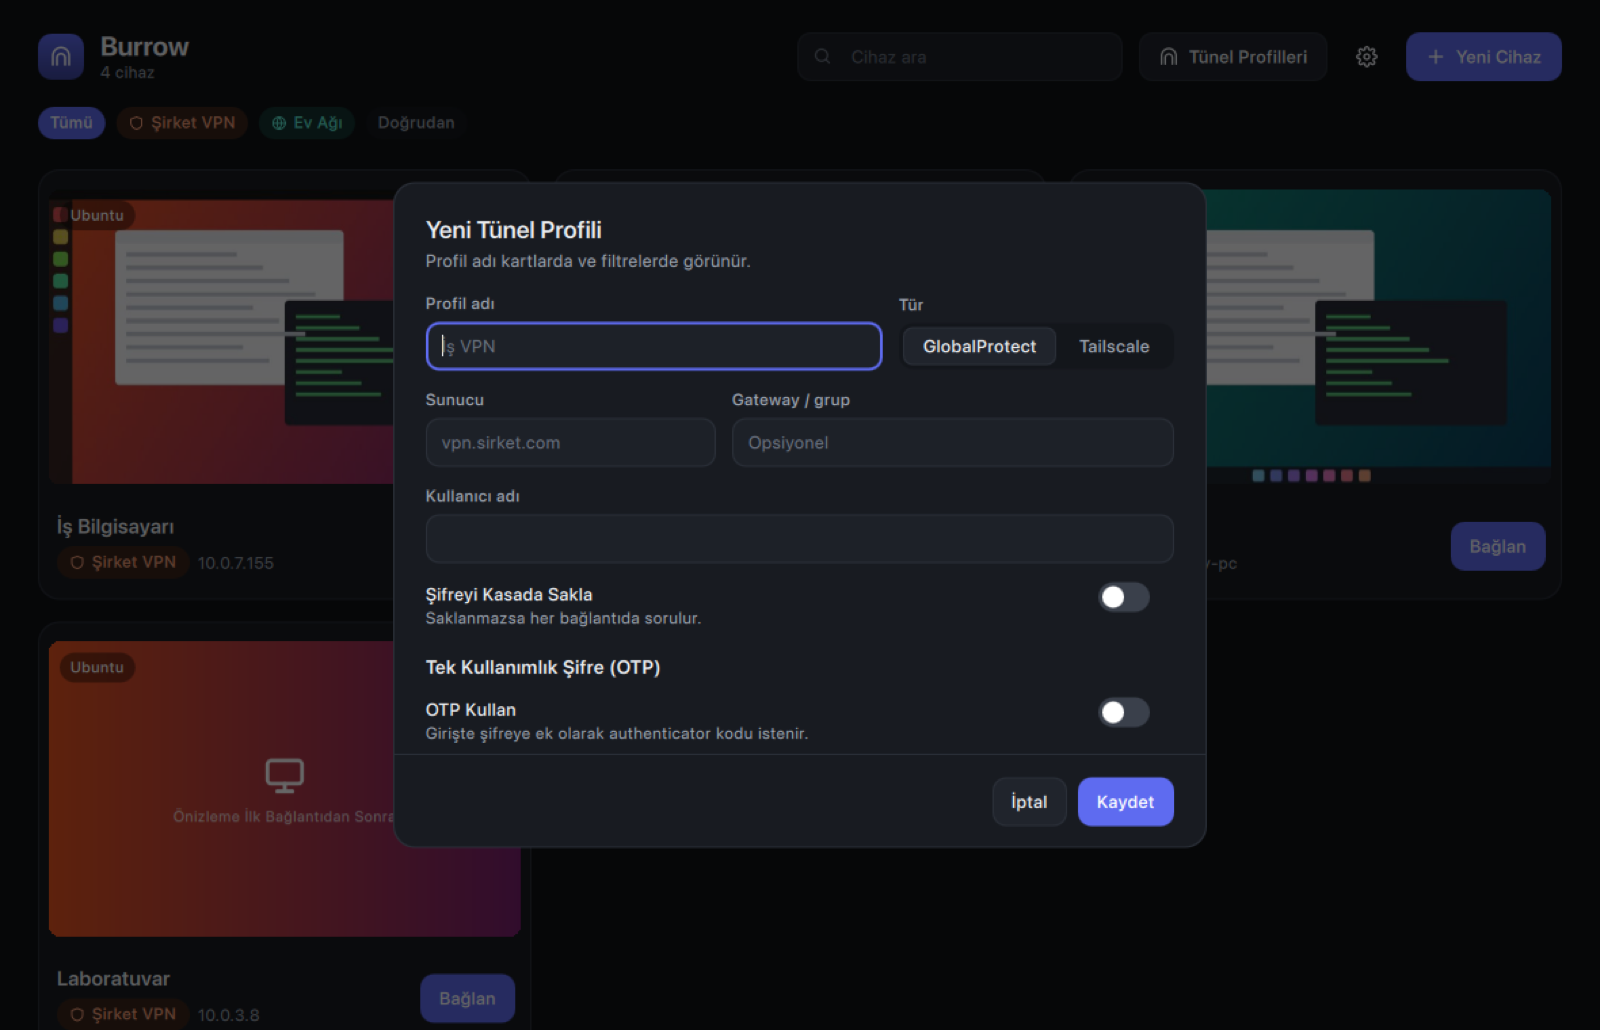
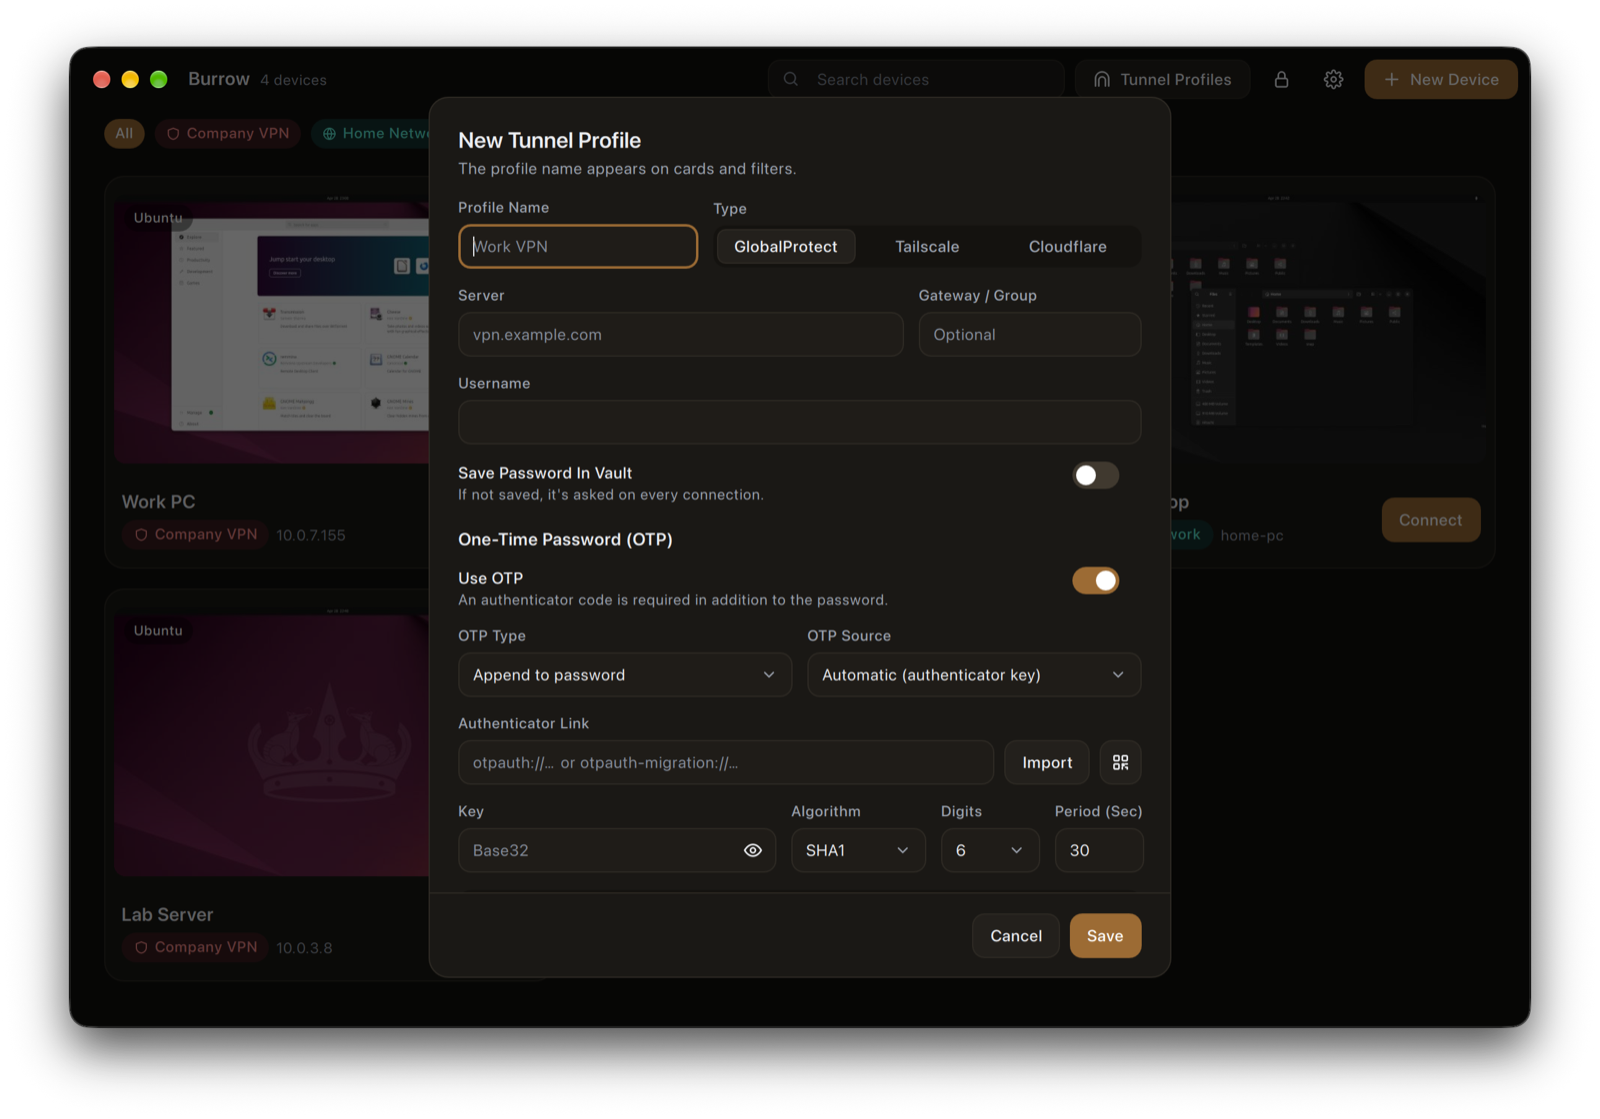
docs: rewrite the README; add security policy, Dependabot, CodeQL and govulncheck
- README for the current app: RDP with H.264, Macs over Screen Sharing, tunnels, security, install,
  with new demo screenshots that follow GitHub's light or dark theme.
- SECURITY.md (private reporting), weekly Dependabot updates for Actions and Go modules, CodeQL for
  Go and the workflows, and a govulncheck job in CI.
- docs/github-settings.md lists the repository settings to apply on GitHub.

diff --git a/README.md b/README.md
@@ -1,18 +1,23 @@
 <p align="center">
-  <img src="docs/images/gallery.png" alt="Burrow device gallery" width="820">
+  <picture>
+    <source media="(prefers-color-scheme: dark)" srcset="docs/images/gallery-dark.png">
+    <img src="docs/images/gallery-light.png" alt="Burrow's device gallery: computers as cards with their last screen" width="820">
+  </picture>
 </p>
 
 <h1 align="center">Burrow</h1>
 
 <p align="center">
   <b>Remote desktop through a private tunnel — without touching the rest of your computer.</b><br>
-  An open-source RDP client for macOS, Ubuntu and Windows with built-in GlobalProtect and Tailscale tunnels.
+  An open-source remote desktop app for macOS: RDP to Windows and Ubuntu, Screen Sharing to Macs,
+  with GlobalProtect, Tailscale and Cloudflare tunnels built in.
 </p>
 
 <p align="center">
+  <a href="https://github.com/metin-aydin/Burrow/releases/latest"><img alt="Latest release" src="https://img.shields.io/github/v/release/metin-aydin/Burrow?display_name=tag&sort=semver"></a>
+  <a href="https://github.com/metin-aydin/Burrow/actions/workflows/ci.yml"><img alt="CI" src="https://github.com/metin-aydin/Burrow/actions/workflows/ci.yml/badge.svg?branch=development"></a>
   <a href="LICENSE"><img alt="License: MIT" src="https://img.shields.io/badge/license-MIT-blue.svg"></a>
-  <img alt="Platforms" src="https://img.shields.io/badge/platforms-macOS%20%7C%20Ubuntu%20%7C%20Windows-lightgrey">
-  <img alt="Status" src="https://img.shields.io/badge/status-early%20development-orange">
+  <img alt="Platform: macOS" src="https://img.shields.io/badge/platform-macOS%20(Apple%20silicon)-lightgrey">
 </p>
 
 > **[Türkçe açıklama aşağıda ↓](#türkçe)**
@@ -21,70 +26,99 @@
 
 ## Why Burrow?
 
-Connecting to your work PC usually means turning on a full VPN that reroutes *all* of your traffic,
-then opening a separate RDP app that doesn't always cooperate. Burrow does both in one place:
+Reaching your work computer usually means switching on a VPN that reroutes *all* of your traffic, then
+opening a separate remote desktop app that doesn't always cooperate. Burrow does both in one place:
 
-- **The tunnel lives inside the app.** GlobalProtect (via openconnect) or Tailscale (via tsnet) runs in
-  userspace. Only Burrow's RDP traffic goes through it — your browser, music and the rest of the system
-  stay on your normal network. No admin rights, no system VPN.
-- **Built-in RDP client.** The remote desktop renders in Burrow's own windows (FreeRDP 3), with
-  multi-monitor support as tabs or detachable windows that remember their layout per device.
-- **One-tap login, even with OTP.** Import your authenticator QR (`otpauth://` or Google Authenticator
-  export) and Burrow fills the one-time code for you — including double-OTP portal/gateway flows.
-- **Everything encrypted, everything local.** Devices, passwords, OTP secrets and screen previews live in
-  a local vault protected by your master password (Argon2id + XChaCha20-Poly1305), optionally unlocked
-  with Touch ID. No cloud, no account.
+- **The tunnel lives inside the app.** GlobalProtect (openconnect), Tailscale (tsnet) and Cloudflare Access
+  run in userspace, only for Burrow's own connections. Your browser, calls and the rest of the system stay
+  on your normal network. No admin rights, no system VPN.
+- **One window, every screen.** Each remote monitor opens as a tab; drag a tab onto another display to give
+  it its own window, full screen if you like. Burrow remembers the layout per computer.
+- **Signs in for you, OTP included.** Import your authenticator QR code once and Burrow types the one-time
+  code itself, including two-step portal and gateway flows.
+- **Everything stays on your Mac, encrypted.** Computers, passwords, OTP secrets and screen previews live in
+  a local vault behind your master password (Argon2id + XChaCha20-Poly1305), with optional Touch ID.
+  No cloud, no account.
 
 ## Features
 
 | | |
 |---|---|
-| **Device gallery** | Cards with each computer's last screen as a preview, filter by tunnel, search |
-| **Tunnels** | GlobalProtect (auth group, split-DNS safe, TOTP with SHA1/256/512), Tailscale / Headscale |
-| **Sessions** | Auto-login, lock on disconnect, sign out or keep session, existing vs. new session (Ubuntu) |
-| **Clipboard** | Two-way text, rich text and images |
-| **Mac keyboard** | Cmd+C → Ctrl+C shortcut translation, full Cmd ↔ Ctrl swap, or off |
-| **Updates** | Automatic updates from GitHub Releases (Sparkle), signed and notarized |
+| **Gallery** | Every computer as a card with its last screen, filtered by tunnel, searchable |
+| **RDP** (Windows, Ubuntu) | FreeRDP 3 with H.264 (AVC444/AVC420) decoded in hardware, progressive RemoteFX fallback, one remote monitor per Mac display, GNOME Remote Login hand-over, certificate pinning |
+| **Macs** (Screen Sharing) | Built-in VNC client speaking Apple's own protocol: Mac user sign-in, encrypted session, the Mac's displays as tabs, Apple's Adaptive picture, the Mac's pointer shapes, Cmd stays Cmd |
+| **Tunnels** | GlobalProtect with OTP (TOTP SHA-1/256/512, appended or separate), Tailscale and Headscale with one-button sign-in and device import, Cloudflare Access |
+| **Sessions** | Automatic sign-in, lock the remote computer when you disconnect, tabs and windows that remember where you left them |
+| **Clipboard & keyboard** | Two-way clipboard (text, rich text, images over RDP), Mac shortcuts translated (Cmd+C → Ctrl+C) or swapped |
+| **App** | Light and dark appearance, English and Turkish, menu bar presence with auto-lock |
+| **Updates** | Signed and notarized releases; the app updates itself and verifies every download (SHA-256 and the Developer ID team) |
 
 <p align="center">
-  <img src="docs/images/tunnel-editor.png" alt="Tunnel profile editor" width="720">
+  <img src="docs/images/device-editor.png" alt="Adding a Mac: Screen Sharing over VNC" width="49%">
+  <img src="docs/images/tunnel-editor.png" alt="A GlobalProtect tunnel profile with automatic one-time codes" width="49%">
 </p>
+
+## Install
+
+Download the latest `.dmg` from [Releases](https://github.com/metin-aydin/Burrow/releases/latest) (the
+first release is on its way; until then, [build it](#building-macos)), open it and drag **Burrow** to
+Applications. Builds are signed with Developer ID and notarized by Apple; later
+versions install themselves from inside the app.
+
+Requires macOS 13 or later on Apple silicon. Ubuntu and Windows builds are planned.
+
+To reach a Mac, turn on **System Settings → General → Sharing → Screen Sharing** on it. To reach Ubuntu,
+turn on **Remote Desktop** in Settings → System (or Remote Login, where your GNOME offers it).
 
 ## Status
 
-Burrow is in **early development** — not ready for daily use yet.
+Burrow is young and moving fast.
 
-- [x] Encrypted vault, master password, Touch ID (signed builds)
-- [x] Device gallery, device and tunnel profile editors, TOTP import with live code
-- [x] GlobalProtect userspace tunnel verified against a real gateway (prototype)
-- [ ] Embedded RDP session (FreeRDP) with multi-monitor and clipboard
-- [ ] Tailscale (tsnet) and GlobalProtect (libopenconnect) inside the app
-- [ ] `burrow-agent` for Ubuntu: unlock on connect, lock on disconnect
-- [ ] Signed releases and auto-update
+- [x] Encrypted vault, master password, Touch ID
+- [x] Embedded RDP sessions: multi-monitor tabs and windows, clipboard, H.264
+- [x] GlobalProtect, Tailscale and Cloudflare tunnels inside the app
+- [x] Macs over Screen Sharing (VNC), with their displays as tabs
+- [x] Signed releases and in-app updates
+- [ ] `burrow-agent` for Ubuntu: unlock on connect, lock on disconnect, turn the office monitor off
+- [ ] Clipboard for Macs (Apple's pasteboard protocol)
+- [ ] Ubuntu and Windows builds
 
-Roadmap and requirements: [docs/SPEC.md](docs/SPEC.md) · Architecture decisions: [docs/decisions](docs/decisions)
+Requirements: [docs/SPEC.md](docs/SPEC.md) · Architecture decisions: [docs/decisions](docs/decisions)
+
+## Security
+
+- Secrets never leave the encrypted vault; they are not written to logs or test fixtures.
+- RDP servers are pinned on first use and Burrow refuses to connect if the certificate changes.
+- A wrong password is never retried automatically, so an account is not locked out.
+- Updates come only over HTTPS from this repository's releases, and are installed only if the archive
+  matches its SHA-256 and the new app is signed by the same Apple developer team.
+
+Found a vulnerability? Please report it privately — see [SECURITY.md](SECURITY.md).
 
 ## Architecture
 
 ```
-┌──────────────── Burrow.app ────────────────┐
-│  QML UI  ──  AppController (C++)           │
-│               │             │              │
-│        FreeRDP 3 engine   Vault (Go)       │
-│               │                            │
-│        netcore (Go, linked as C archive)   │
-│        ├─ tsnet ............ Tailscale     │
-│        ├─ libopenconnect ... GlobalProtect │
-│        └─ gVisor netstack (userspace TCP)  │
-└────────────────────────────────────────────┘
+┌──────────────────── Burrow.app ────────────────────┐
+│  QML UI  ──  AppController (C++)                   │
+│                │                  │                │
+│     RDP: FreeRDP 3      VNC: own RFB client        │
+│     (H.264 via          (Apple 003.889, Adaptive)  │
+│      VideoToolbox)                │                │
+│                └───────┬──────────┘                │
+│        netcore (Go, linked as a C archive)         │
+│        ├─ libopenconnect ... GlobalProtect         │
+│        ├─ tsnet ............ Tailscale             │
+│        ├─ Cloudflare Access (WebSocket)            │
+│        └─ encrypted vault, TOTP                    │
+└────────────────────────────────────────────────────┘
 ```
 
-Qt 6 (QML + C++20) · FreeRDP 3 · Go netcore · see [ADR 0001](docs/decisions/0001-tech-stack.md)
+Qt 6 (QML + C++20) · FreeRDP 3 · Go · see [ADR 0001](docs/decisions/0001-tech-stack.md)
 
 ## Building (macOS)
 
 ```bash
-brew install go cmake ninja qt freerdp
+brew install go cmake ninja qt freerdp openconnect
 cmake -S . -B build -G Ninja -DCMAKE_PREFIX_PATH="$(brew --prefix qt);$(brew --prefix freerdp)"
 cmake --build build
 open build/app/Burrow.app
@@ -92,7 +126,7 @@ open build/app/Burrow.app
 
 Tests: `cd build && ctest` (C++) · `cd netcore && go test ./...` (Go)
 
-Try the UI with sample devices (uses a throwaway vault):
+Try the interface with sample computers, in a throwaway vault:
 
 ```bash
 BURROW_VAULT=/tmp/burrow-demo/vault.json build/app/Burrow.app/Contents/MacOS/Burrow --seed-demo
@@ -100,38 +134,42 @@ BURROW_VAULT=/tmp/burrow-demo/vault.json build/app/Burrow.app/Contents/MacOS/Bur
 
 ## Project layout
 
-- `app/` — Qt 6 app: QML UI (`qml/`), C++ controller, vault wrapper, RDP engine
-- `netcore/` — Go network core: tunnels, loopback forwarding, TOTP, encrypted vault
+- `app/` — the Qt app: QML interface (`qml/`), controller, RDP and VNC sessions, vault wrapper
+- `netcore/` — Go network core: tunnels, TOTP, encrypted vault
 - `docs/` — requirements, architecture decisions (ADR), research, project memory
-- `tools/` — prototypes and diagnostics
 - `.github/` — CI and automated releases (`development` → `master`)
 
 ## Contributing
 
-Issues and pull requests are welcome. Please read [CLAUDE.md](CLAUDE.md) first — it holds the project
-rules (for humans and AI assistants alike). Commits follow
-[Conventional Commits](https://www.conventionalcommits.org/); versions are derived from them.
+Issues and pull requests are welcome. Please read [CLAUDE.md](CLAUDE.md) first: it holds the project rules
+for people and AI assistants alike. Commits follow [Conventional Commits](https://www.conventionalcommits.org/);
+version numbers are derived from them.
 
 ## License
 
-[MIT](LICENSE). Third-party components keep their own licenses: FreeRDP (Apache-2.0),
-Qt (LGPL-3.0), libopenconnect (LGPL-2.1), Tailscale (BSD-3-Clause).
+[MIT](LICENSE). Third-party components keep their own licenses: FreeRDP (Apache-2.0), Qt (LGPL-3.0),
+libopenconnect (LGPL-2.1), Tailscale (BSD-3-Clause). Burrow's Mac support builds on the Apple Screen
+Sharing research of [zDesk](https://github.com/andrewtheguy/zdesk) (MIT); see
+[THIRD_PARTY_NOTICES.md](THIRD_PARTY_NOTICES.md). Sample previews are GPL-licensed Ubuntu screenshots from
+Wikimedia Commons ([attribution](docs/assets/demo/ATTRIBUTION.md)).
 
 ---
 
 ## Türkçe
 
-**Burrow**, iş veya ev bilgisayarına uzak masaüstü (RDP) ile bağlanmanı sağlayan açık kaynak bir
-uygulamadır. GlobalProtect VPN'ini veya Tailscale'i **yalnızca uygulamanın içinde** açar: bilgisayarının
-geri kalan trafiği etkilenmez, yönetici yetkisi gerekmez.
+**Burrow**, iş veya ev bilgisayarına uzak masaüstüyle bağlanmanı sağlayan açık kaynak bir macOS
+uygulamasıdır. Windows ve Ubuntu'ya RDP ile, Mac'lere Ekran Paylaşımı ile bağlanır. GlobalProtect,
+Tailscale ve Cloudflare tünellerini **yalnızca uygulamanın içinde** açar: bilgisayarının geri kalan trafiği
+etkilenmez, yönetici yetkisi gerekmez.
 
-- **Kart galerisi:** her bilgisayar son ekran görüntüsüyle bir kart olarak görünür.
-- **Otomatik OTP:** authenticator QR kodunu bir kez içe aktar; tek kullanımlık kodu Burrow girer
-  (çift OTP'li portal/gateway akışları dahil).
+- **Tek pencere, bütün ekranlar:** her uzak monitör bir sekme; sekmeyi başka bir ekrana sürükleyip ayrı
+  pencere yapabilirsin, Burrow düzeni bilgisayar başına hatırlar.
+- **Otomatik OTP:** authenticator QR kodunu bir kez içe aktar, tek kullanımlık kodu Burrow girer.
 - **Şifreli yerel kasa:** cihazlar, şifreler, OTP anahtarları ve önizlemeler ana şifrenle şifrelenip yalnızca
-  bu bilgisayarda saklanır; Touch ID ile açılabilir.
-- **Çoklu monitör, çift yönlü pano, Mac kısayol çevirisi** (Cmd+C → Ctrl+C).
+  bu Mac'te saklanır; Touch ID ile açılabilir.
+- **Mac'ler:** Ekran Paylaşımı ile, Mac kullanıcı adınla; Mac'in ekranları sekme olarak gelir.
+- **Güncellemeler:** imzalı ve Apple onaylı sürümler; uygulama kendini günceller ve her indirmeyi doğrular.
 
-Durum: erken geliştirme aşamasında. Gereksinimler [docs/SPEC.md](docs/SPEC.md), kararlar
-[docs/decisions](docs/decisions) altında. Proje kuralları ve hafızası: [CLAUDE.md](CLAUDE.md),
-[docs/memory](docs/memory).
+Kurulum: [Releases](https://github.com/metin-aydin/Burrow/releases/latest) sayfasından `.dmg` dosyasını indir.
+Gereksinimler [docs/SPEC.md](docs/SPEC.md), kararlar [docs/decisions](docs/decisions) altında. Proje
+kuralları ve hafızası: [CLAUDE.md](CLAUDE.md), [docs/memory](docs/memory).

diff --git a/docs/github-settings.md b/docs/github-settings.md
@@ -1,0 +1,38 @@
+# GitHub repository settings
+
+What the repository should have on GitHub itself (not in files). Applied through the GitHub MCP
+(CLAUDE.md); kept here so the next maintainer can check them. Release flow: ADR 0002.
+
+## About
+
+- **Description:** Remote desktop through a private tunnel: RDP to Windows and Ubuntu, Screen Sharing to
+  Macs, with GlobalProtect, Tailscale and Cloudflare built in. Open source, macOS.
+- **Website:** https://github.com/metin-aydin/Burrow/releases/latest
+- **Topics:** `rdp`, `remote-desktop`, `vnc`, `screen-sharing`, `freerdp`, `globalprotect`, `openconnect`,
+  `tailscale`, `cloudflare-access`, `macos`, `qt6`, `qml`, `golang`, `vpn`, `totp`
+- Releases on, Packages off, Wiki off, Discussions optional, Issues on.
+
+## Branches
+
+- **Default branch:** `development`.
+- **`development`** (ruleset): block force pushes and deletion; direct pushes allowed.
+- **`master`** (ruleset): changes only through a pull request from `development`; required status checks
+  `Go netcore tests`, `macOS build`, `Release scripts` (CI); block force pushes and deletion.
+- **Tags `v*`** (ruleset): block deletion and updates (published versions never move).
+- Allow merge commits for `development` → `master` (the merged PR's description becomes the release notes).
+
+## Actions
+
+- Workflow permissions: read-only `GITHUB_TOKEN` by default (jobs ask for `contents: write` themselves);
+  Actions may not approve pull requests.
+- **Environment `release`:** deployment branches limited to `master`. Secrets (added by the maintainer only,
+  never written anywhere else): `CSC_LINK` (Developer ID Application .p12, base64), `CSC_KEY_PASSWORD`,
+  `APPLE_ID`, `APPLE_APP_SPECIFIC_PASSWORD`, `APPLE_TEAM_ID`. Without them the release stops before
+  publishing an unsigned build.
+
+## Security
+
+- Private vulnerability reporting: on (SECURITY.md points to it).
+- Dependabot alerts and security updates: on (`.github/dependabot.yml` adds weekly version updates).
+- Secret scanning and push protection: on.
+- Code scanning: the `CodeQL` workflow (Go and Actions).

diff --git a/SECURITY.md b/SECURITY.md
@@ -1,0 +1,29 @@
+# Security Policy
+
+Burrow holds the keys to other computers: tunnel credentials, OTP secrets and remote desktop passwords.
+Reports that help keep them safe are very welcome.
+
+## Reporting a vulnerability
+
+Please report privately, not in a public issue:
+
+- **GitHub:** [Report a vulnerability](https://github.com/metin-aydin/Burrow/security/advisories/new)
+  (Security → Advisories). This reaches the maintainer only.
+
+Include what is affected (version, platform, the connection type: RDP, VNC, a tunnel), how to reproduce it,
+and what an attacker gains. You should get a first answer within a week. Once a fix is released, the
+advisory is published with credit, unless you prefer otherwise.
+
+## Supported versions
+
+Only the latest release receives fixes; the app updates itself, so staying current is automatic.
+
+## What Burrow does to protect you
+
+- Devices, passwords, OTP secrets and previews live in a local vault encrypted with the master password
+  (Argon2id + XChaCha20-Poly1305). Secrets are never written to logs, error messages or test fixtures.
+- RDP server certificates are pinned on first use; a changed certificate stops the connection.
+- Data from remote computers (RDP, VNC, tunnels) is treated as untrusted and bounds-checked before use.
+- Failed sign-ins are never retried automatically.
+- Updates are fetched over HTTPS from this repository's releases and installed only when the archive matches
+  its SHA-256 and the new app carries a valid Developer ID signature from the same team.

diff --git a/docs/memory/LOG.md b/docs/memory/LOG.md
@@ -4,6 +4,14 @@ En yeni kayıt en üstte.
 
 ## 2026-11-15
 
+- GitHub hazırlığı: README güncel özelliklerle yeniden yazıldı (RDP + H.264, Mac/VNC, tüneller, güvenlik, kurulum;
+  açık/koyu temaya göre değişen galeri görüntüsü, demo verisiyle yeni ekran görüntüleri). `SECURITY.md`,
+  `.github/dependabot.yml` (Actions + Go, haftalık), `codeql.yml` (Go + Actions), CI'da ayrı `govulncheck` işi.
+  GitHub tarafı ayarlar (açıklama, konular, varsayılan branch, kurallar, `release` ortamı ve sırlar, güvenlik
+  ayarları) `docs/github-settings.md`'de; GitHub MCP bağlanamadığı için ("Incompatible auth server: does not
+  support dynamic client registration") henüz uygulanmadı. Yerel govulncheck çalıştırması izin sistemince
+  reddedildi; sonuç ilk CI çalışmasında görülecek.
+
 - Güvenlik incelemesi (RDP codec): eski RemoteFX kapatıldı (Progressive kapsıyor), H.264 yalnız FreeRDP
   `WITH_GFX_H264=ON` ile derliyse isteniyor, CMake en az FreeRDP 3.33 istiyor (test edilen sürüm).
 
